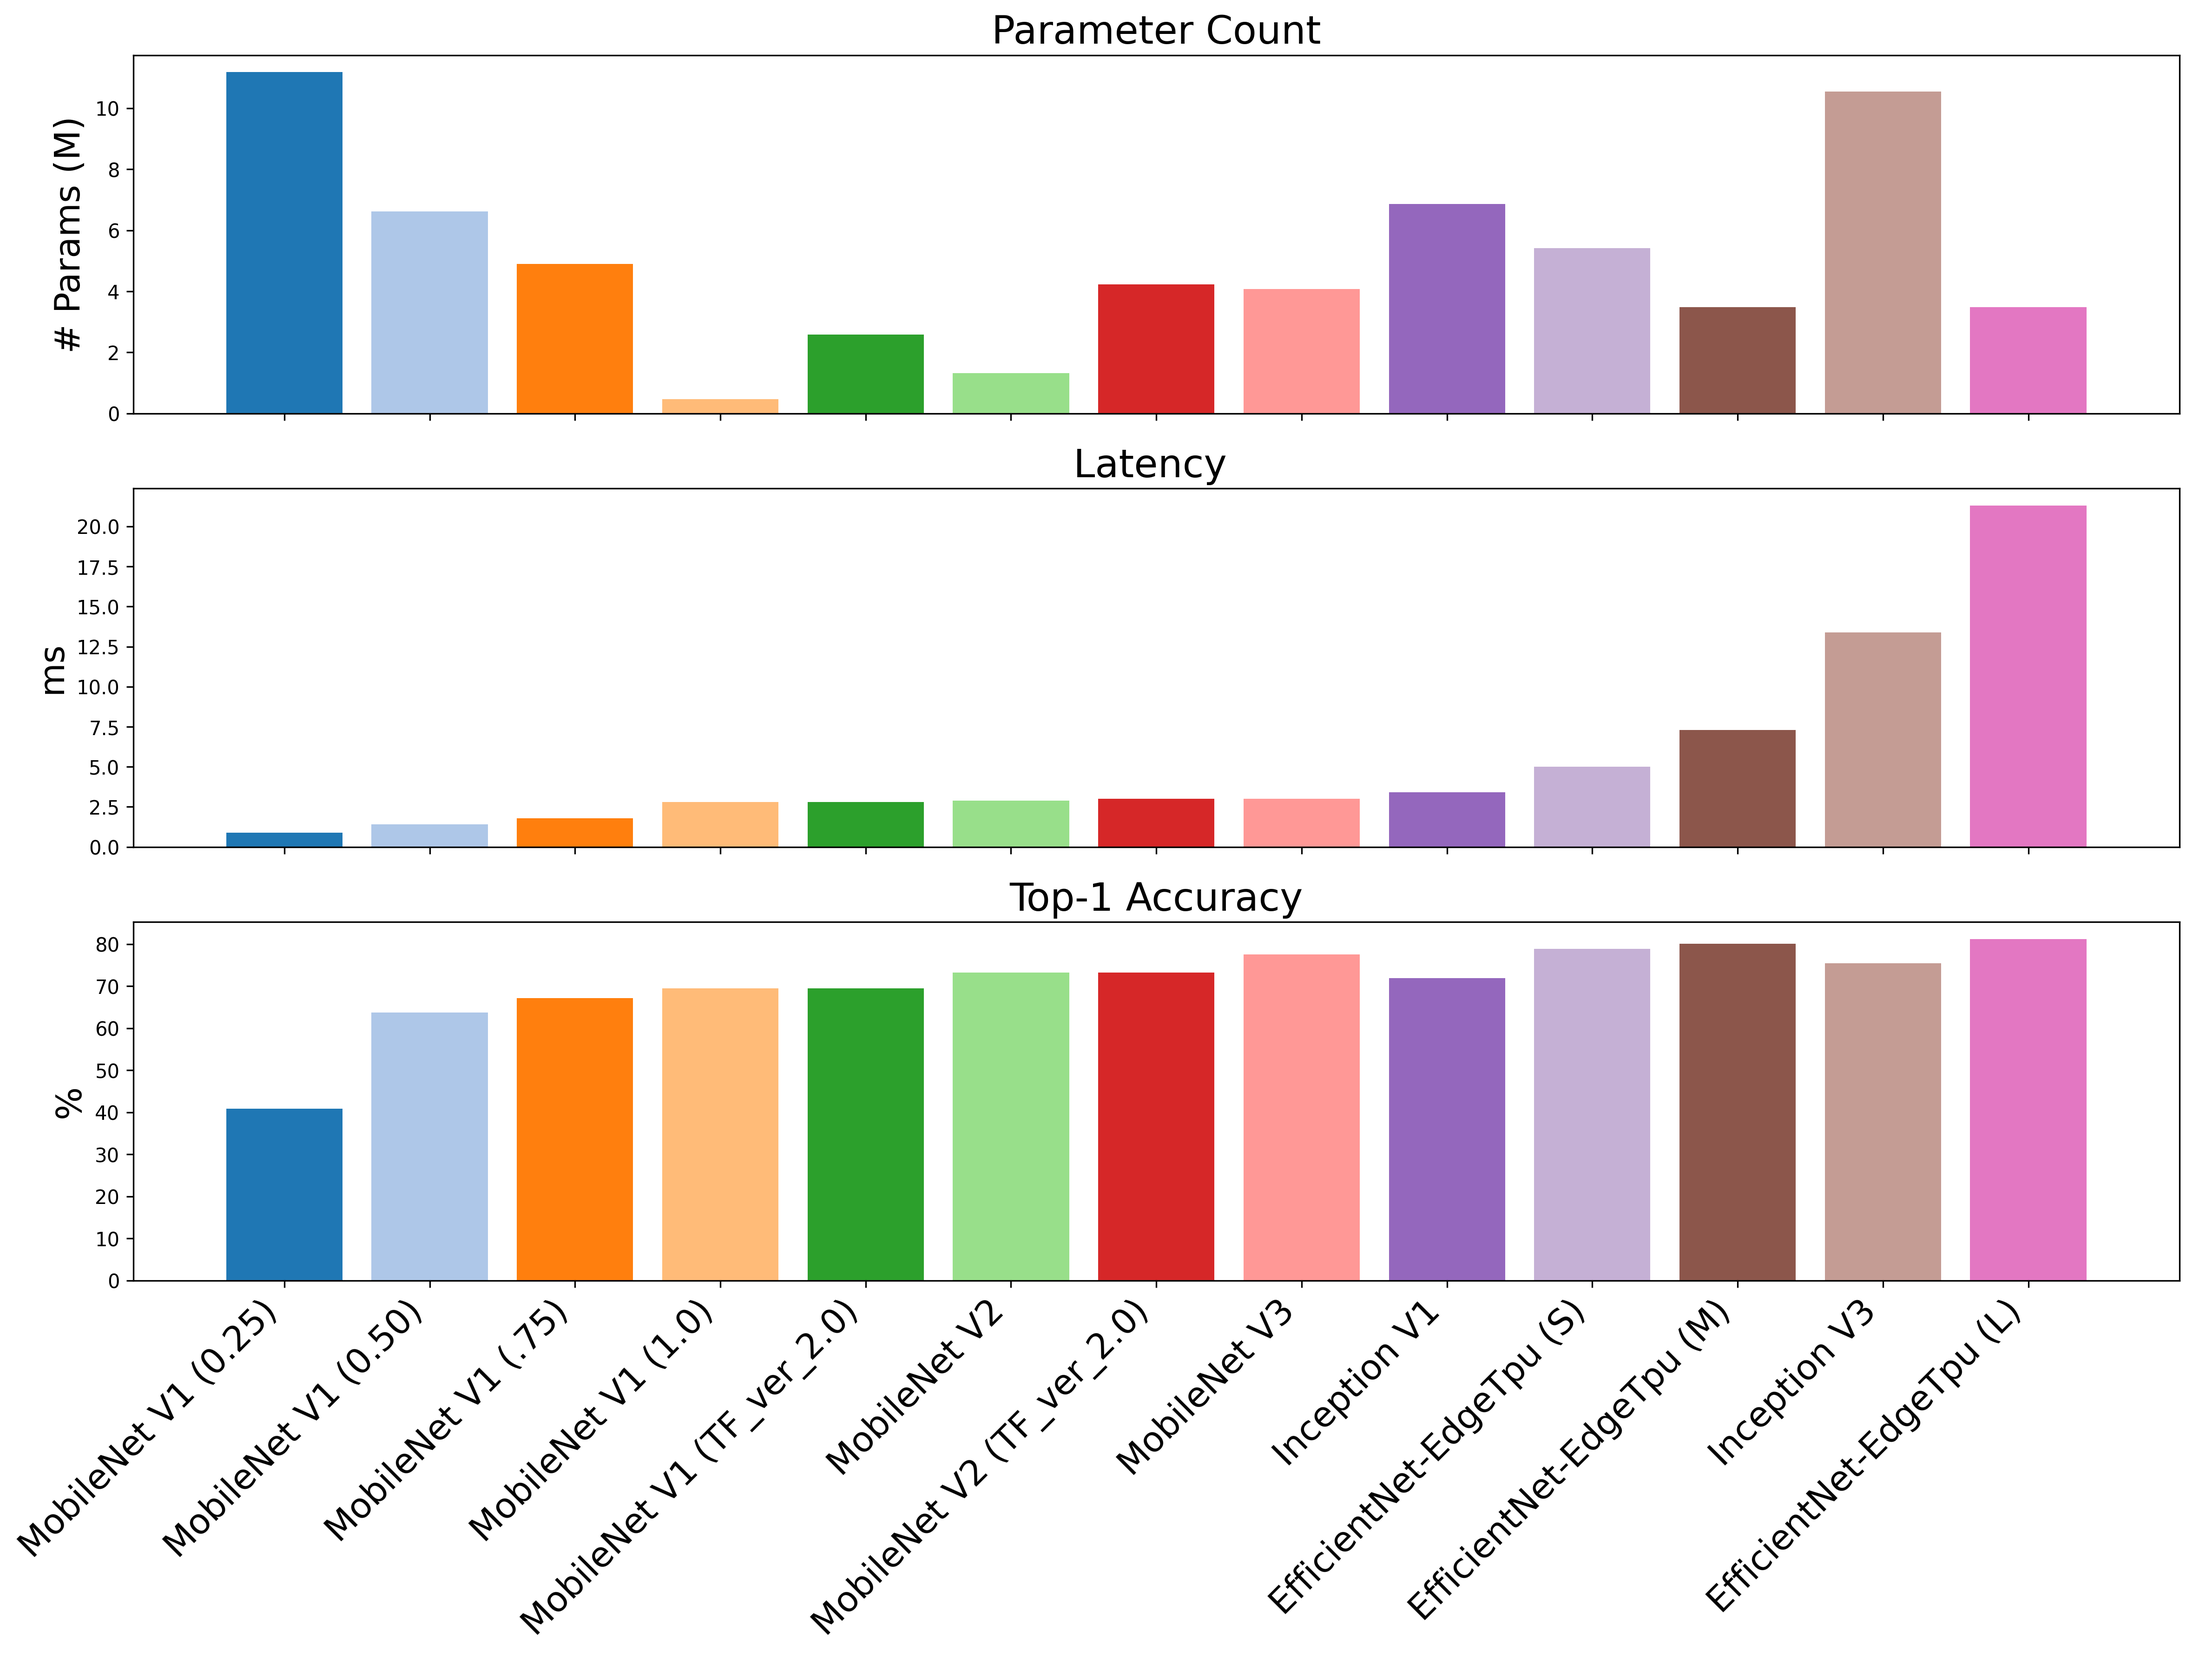
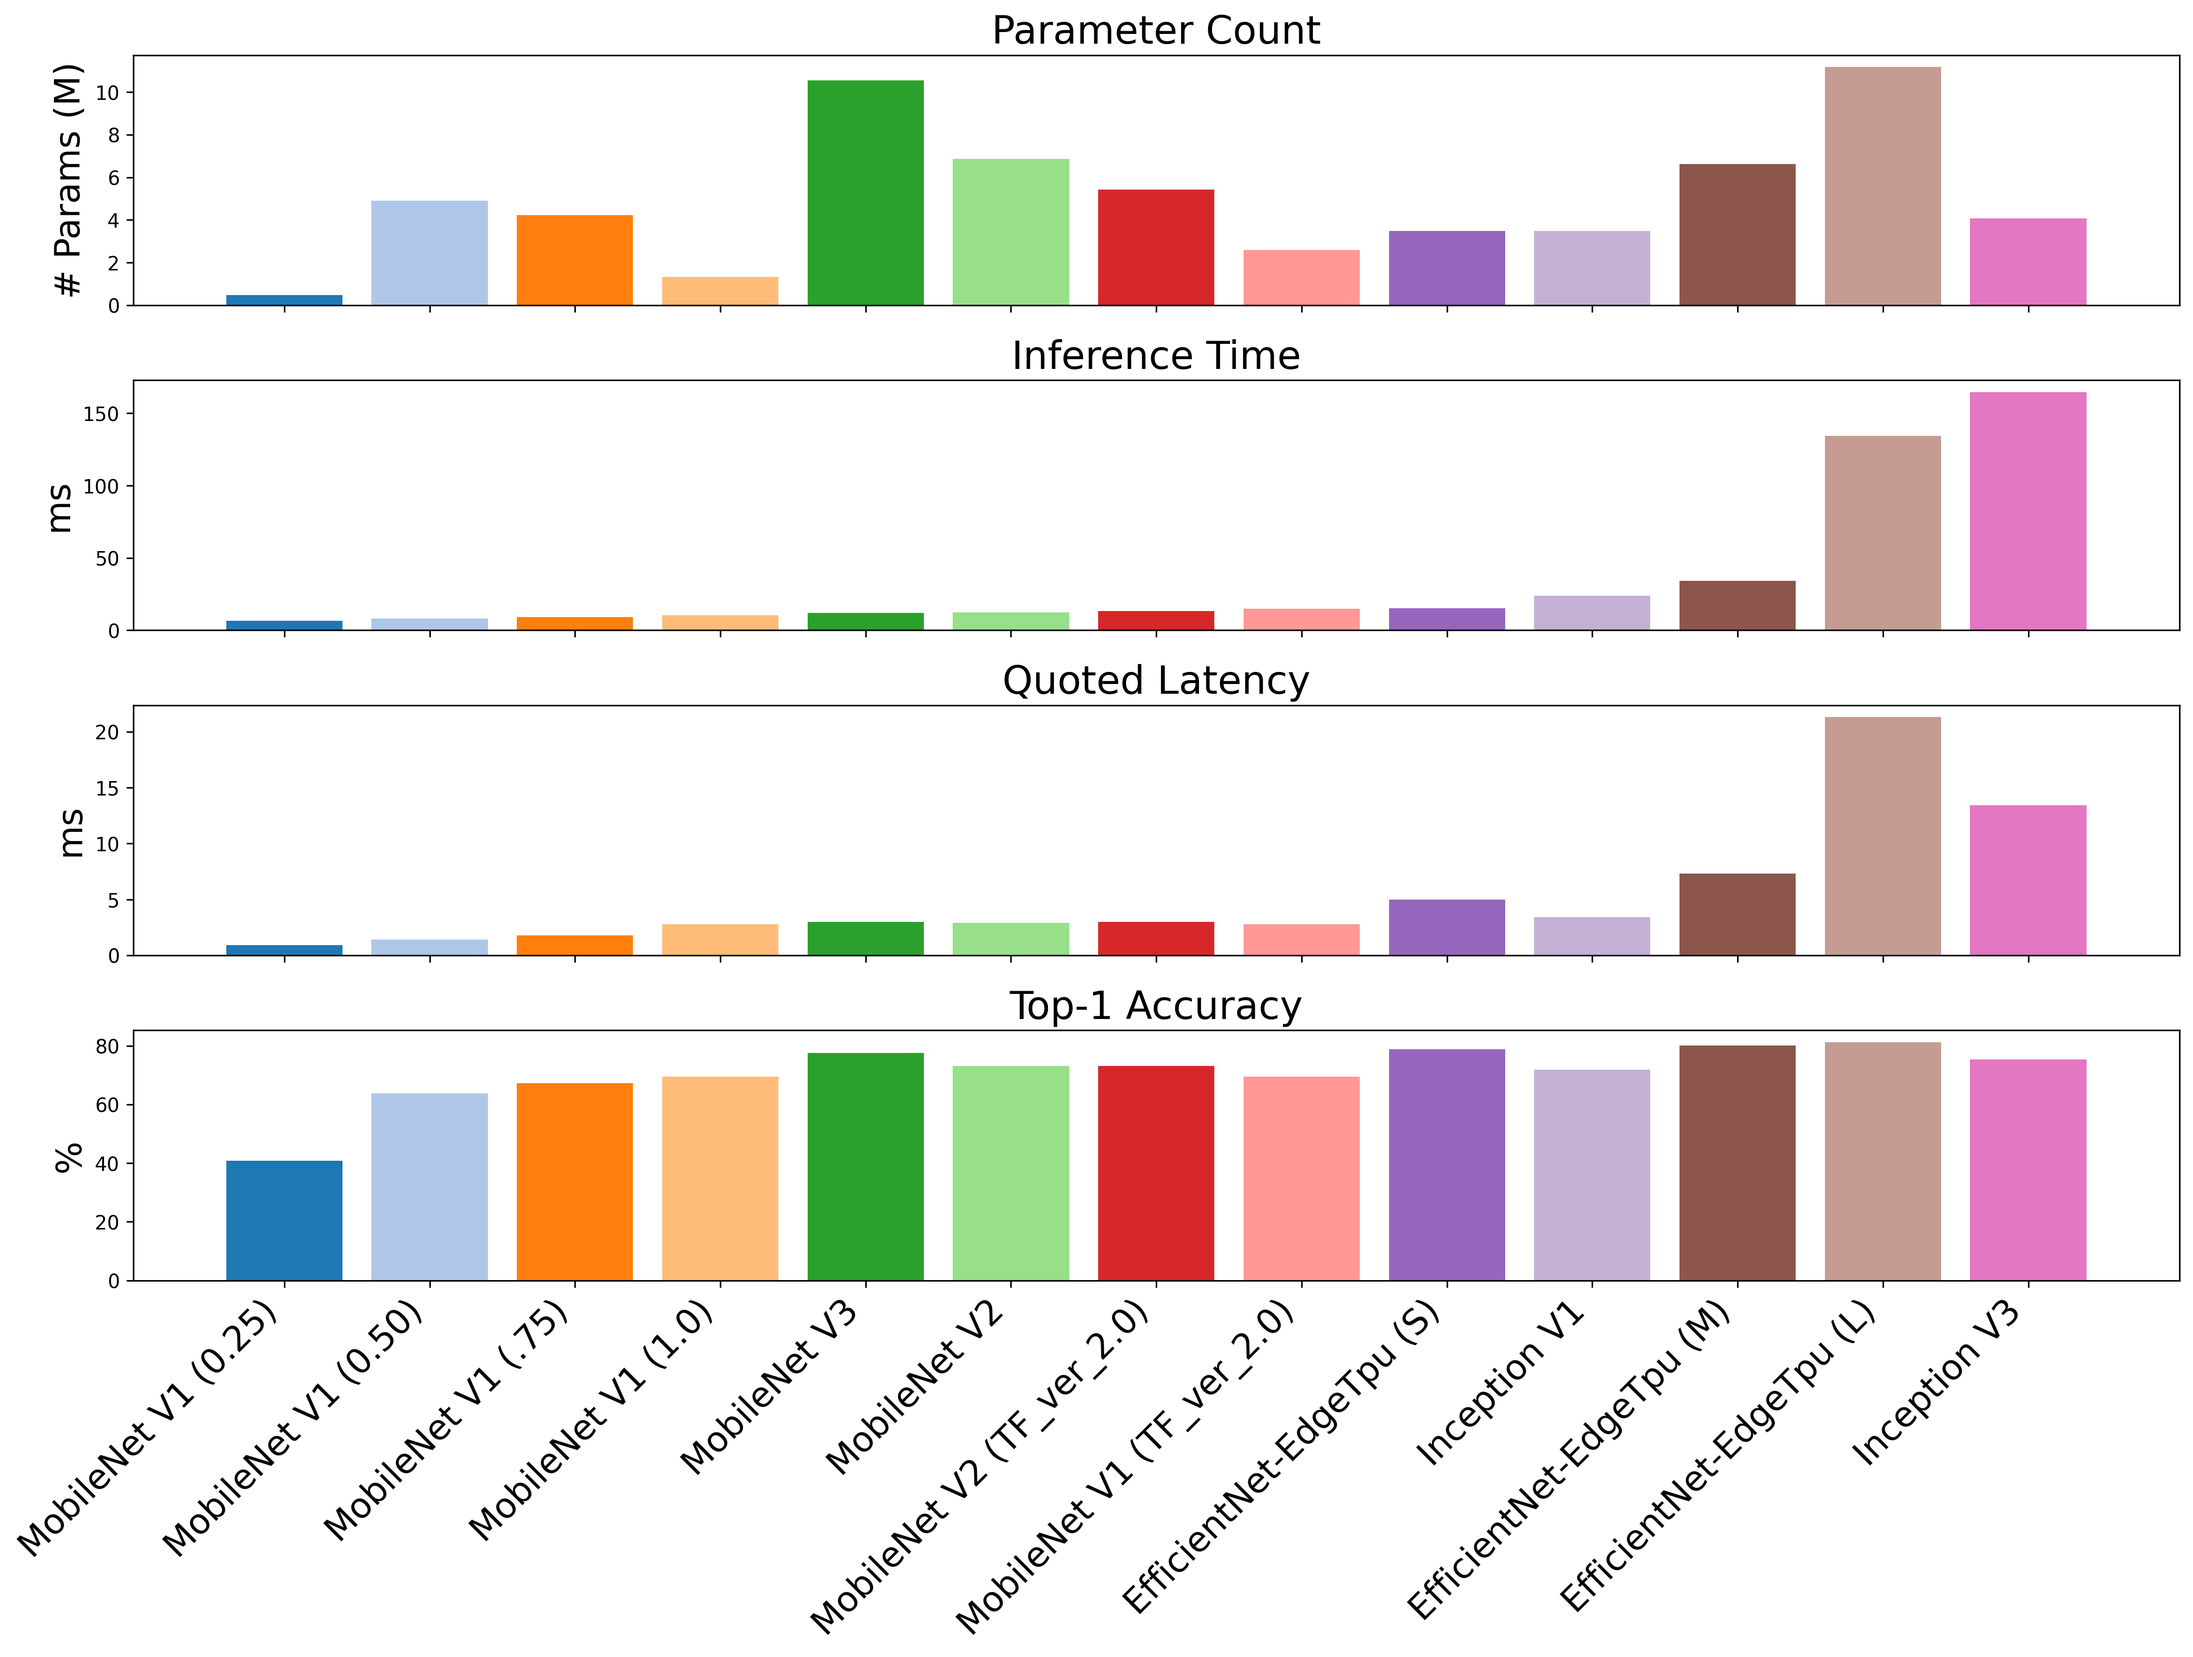
dataset with longer sample, trimming start/end, new/improved plots

diff --git a/scripts/model_stats_plotting.py b/scripts/model_stats_plotting.py
@@ -1,19 +1,20 @@
 import sys
 
-import matplotlib
+import matplotlib, csv, pathlib
 import pandas as pd
 import matplotlib.pyplot as plt
 from os import path
 from adjustText import adjust_text
 from ParamCounts import ParamCounts
+from saleae_parsing import measure_pulses
 
-def read_inf_times(file):
-    # convert csv to data frame
-    df =pd.read_csv(file)
-    model = df["model"].astype(str).to_numpy() # model file name
-    time = df["avg_logic_ms"].astype(float).to_numpy() # average inference time output from logic analyzer
-    path = df["model_dir"].astype(str).to_numpy()
-
+def inference_from_csvs(rundir):
+    top_dir =  pathlib.Path("captures/"+rundir).expanduser()
+    files = sorted(top_dir.rglob("*.csv"))
+    inference_time_ms = []
+    for file in files:
+        inference_time_ms.append(measure_pulses(file))
+    return inference_time_ms
 
 def make_figure(titles,names,values,units,filename):
     cmap = matplotlib.colormaps["tab20"]
@@ -69,7 +70,7 @@ class ModelStatsPlotting:
 
         model_dir = "~/Coral-TPU-Characterization/models/Image_Classification"
         pc = ParamCounts(model_dir)
-        inf_real = "Image_Classufication_inference_results.csv"
+        inf_ms = inference_from_csvs("IMG_CLASS_10s") # as measured from Saleae
         param_counts = [x/1e6 for x in pc.scan_models()]  # scale to millions
 
         ic_df = pd.read_excel(
@@ -80,26 +81,48 @@ class ModelStatsPlotting:
         )
 
         model_names = ic_df["Model name"].tolist()
-        latency_ms = ic_df["Latency (ms)"].tolist()
+        latency_ms = ic_df["Latency (ms)"].tolist() # from coral docs
         top1accuracy = ic_df["Top-1 Accuracy"].tolist()
-        # top5accuracy = ic_df["Top-5 Accuracy"].tolist()
+        top5accuracy = ic_df["Top-5 Accuracy"].tolist()
 
-        combined = list(zip(latency_ms, model_names, param_counts, top1accuracy))
+        combined = list(zip(inf_ms, latency_ms,model_names, param_counts, top1accuracy))
         combined.sort(key=lambda x: x[0]) # sort by latency - fastest to slowest
+        trimmed = combined[:-2]
 
-        latency_ms, model_names, param_counts, top1accuracy = zip(*combined) # overwrite with sorted lists
+        inf_ms, latency_ms, model_names, param_counts, top1accuracy = zip(*combined) # overwrite with sorted lists
 
-        titles = ["Parameter Count","Latency ", "Top-1 Accuracy"]
-        values = [param_counts, latency_ms, top1accuracy]
-        units = ["# Params (M)", "ms", "%"]
+        updated_df = pd.DataFrame({
+            "Model name": model_names,
+            "Latency (ms)": latency_ms,  # quoted
+            "Top-1 Accuracy": top1accuracy,
+            "Top-5 Accuracy": top5accuracy,
+            "Measured Inference Time (ms)": inf_ms,  # measured
+            "Parameter Count (M)": param_counts
+        })
+
+        # Save back into Excel
+        with pd.ExcelWriter(self.sheet, mode="a", if_sheet_exists="replace", engine="openpyxl") as writer:
+            updated_df.to_excel(writer, sheet_name="Img_Class_outs", index=False)
+
+        titles = ["Parameter Count","Inference Time","Quoted Latency", "Top-1 Accuracy"]
+        values = [param_counts, inf_ms,latency_ms, top1accuracy]
+        units = ["# Params (M)", "ms", "ms", "%"]
 
         make_figure(titles,model_names,values,units,self.plotdir+"/img_class_plot.png")
         param_latency_scatter(model_names,param_counts,latency_ms,self.plotdir+"/img_class_sctplot.png")
+
+        inf_ms, latency_ms, model_names, param_counts, top1accuracy = zip(*trimmed)
+        titles = ["Parameter Count","Inference Time","Quoted Latency", "Top-1 Accuracy"]
+        values = [param_counts, inf_ms,latency_ms, top1accuracy]
+        units = ["# Params (M)", "ms", "ms", "%"]
+
+        make_figure(titles,model_names,values,units,self.plotdir+"/img_class_plot_trimmed.png")
 
     def obj_det_plt(self):
         """Triple Stacked Bar Chart of Model Stats for Object Detection"""
         model_dir = "~/Coral-TPU-Characterization/models/Object_Detection"
         pc = ParamCounts(model_dir)
+        inf_ms = inference_from_csvs("OBJ_DET_10s") # as measured from Saleae
 
         param_counts = [x/1e6 for x in pc.scan_models()]  # scale to millions
         ic_df = pd.read_excel(
@@ -117,10 +140,21 @@ class ModelStatsPlotting:
         combined.sort(key=lambda x: x[0]) # sort by latency - fastest to slowest
 
         latency_ms, model_names, param_counts, mAP = zip(*combined) # overwrite with sorted lists
+        updated_df = pd.DataFrame({
+            "Model Name": model_names,
+            "Latency (ms)": latency_ms,  # quoted
+            "Measured Inference Time (ms)": inf_ms,  # measured
+            "mAP": mAP,
+            "Parameter Count (M)": param_counts
+        })
 
-        titles = ["Parameter Count","Latency (ms)", "Mean Average Precision"]
-        values = [param_counts, latency_ms, mAP]
-        units = ["# Params (M)", "ms", "%"]
+        # Save back into Excel
+        with pd.ExcelWriter(self.sheet, mode="a", if_sheet_exists="replace", engine="openpyxl") as writer:
+            updated_df.to_excel(writer, sheet_name="Obj_Det_outs", index=False)
+
+        titles = ["Parameter Count","Inference Time (ms)","Latency (ms)", "Mean Average Precision"]
+        values = [param_counts,inf_ms, latency_ms, mAP]
+        units = ["# Params (M)", "ms","ms", "%"]
 
         make_figure(titles,model_names,values,units,self.plotdir+"/obj_det_plot.png")
 
@@ -152,4 +186,4 @@ if __name__ == "__main__":
     plots = ModelStatsPlotting("scripts/Model_Stats.xlsx","plots/")
     plots.img_class_plt()
     plots.obj_det_plt()
-    plots.segmentation_plt()
+    #plots.segmentation_plt() # hiding in libs currently 090825

diff --git a/scripts/bench_mark_sweep.py b/scripts/bench_mark_sweep.py
@@ -5,7 +5,7 @@ import pandas as pd
 from datetime import datetime
 from saleae import automation
 
-MODELS_DIR = pathlib.Path("~/Coral-TPU-Characterization/models/Image_Classification").expanduser()
+MODELS_DIR = pathlib.Path("~/Coral-TPU-Characterization/models/Object_Detection").expanduser()
 RESULTS_FILE = "inference_results.csv"
 
 # serial settings
@@ -64,7 +64,7 @@ with open(RESULTS_FILE, "w", newline="") as csvfile:
         for model in models:
             print(f"Testing {model.name}\n")
             rel_path = model.relative_to(MODELS_DIR)
-            device_path = f"/models/Image_Classification/{rel_path.as_posix()}"  # for header
+            device_path = f"/models/Object_Detection/{rel_path.as_posix()}"  # for header
             print(f"Running {device_path}\n")
             host_path = str(model.resolve())  # absolute host path for cmake
             print(host_path)
@@ -103,7 +103,7 @@ with open(RESULTS_FILE, "w", newline="") as csvfile:
                 digital_threshold_volts=3.3
             )
             capture_configuration = automation.CaptureConfiguration(
-                capture_mode=automation.TimedCaptureMode(duration_seconds=2.0)
+                capture_mode=automation.TimedCaptureMode(duration_seconds=10.0)
             )
 
             # Create output directory per model (or perhaps not)

diff --git a/scripts/saleae_parsing.py b/scripts/saleae_parsing.py
@@ -6,8 +6,8 @@ import pandas as pd
 def measure_pulses(csv_file):
     """Parse csv for model inf time data and return average high pulse width in ms"""
     df =pd.read_csv(csv_file)
-    t = df["Time [s]"].astype(float).to_numpy() #time (seconds)
-    d = df["Channel 0"].astype(float).to_numpy() # digital output (0 or 1)
+    t = df["Time [s]"].astype(float).to_numpy()[1:-2] #time (seconds)
+    d = df["Channel 0"].astype(float).to_numpy() [1:-2]# digital output (0 or 1)
 
 
     if len(d) == 0:
@@ -36,7 +36,7 @@ def measure_pulses(csv_file):
     return inf_time.mean() * 1000  # mean inference time in ms
 
 if __name__ == "__main__":
-    Top_Dir =  pathlib.Path("captures/IMG_CLASS").expanduser()
+    Top_Dir =  pathlib.Path("captures/IMG_CLASS_10s").expanduser()
     files = sorted(Top_Dir.rglob("*.csv"))
     output_path = "captures/inferences.csv"
 

diff --git a/inference_time_combined.cc b/inference_time_combined.cc
@@ -57,7 +57,7 @@ STATIC_TENSOR_ARENA_IN_SDRAM(tensor_arena, kTensorArenaSize);
   resolver.AddDequantize();
   // resolver.AddResizeBilinear();
   // resolver.AddArgMax();
-  //resolver.AddDetectionPostprocess();
+  resolver.AddDetectionPostprocess();
   resolver.AddCustom(kCustomOp, RegisterCustomOp());
 
   tflite::MicroInterpreter interpreter(
@@ -104,8 +104,6 @@ STATIC_TENSOR_ARENA_IN_SDRAM(tensor_arena, kTensorArenaSize);
 #endif
     const double ms = static_cast<double>(t_end - t_start) / (cpu_hz / 1000.0);
     printf("invoke_ms=%.3f\r\n", ms);
-
-    vTaskDelay(pdMS_TO_TICKS(200));
   }
 }
 

diff --git a/libs/inference_model_config.h b/libs/inference_model_config.h
@@ -1,1 +1,1 @@
-#define MODEL_PATH "/models/Image_Classification/MobileNetV3/tf2_mobilenet_v3_edgetpu_1.0_224_ptq_edgetpu.tflite"
+#define MODEL_PATH "/models/Object_Detection/SSD_MobileNet_V2_TF1/ssd_mobilenet_v2_coco_quant_postprocess_edgetpu.tflite"
